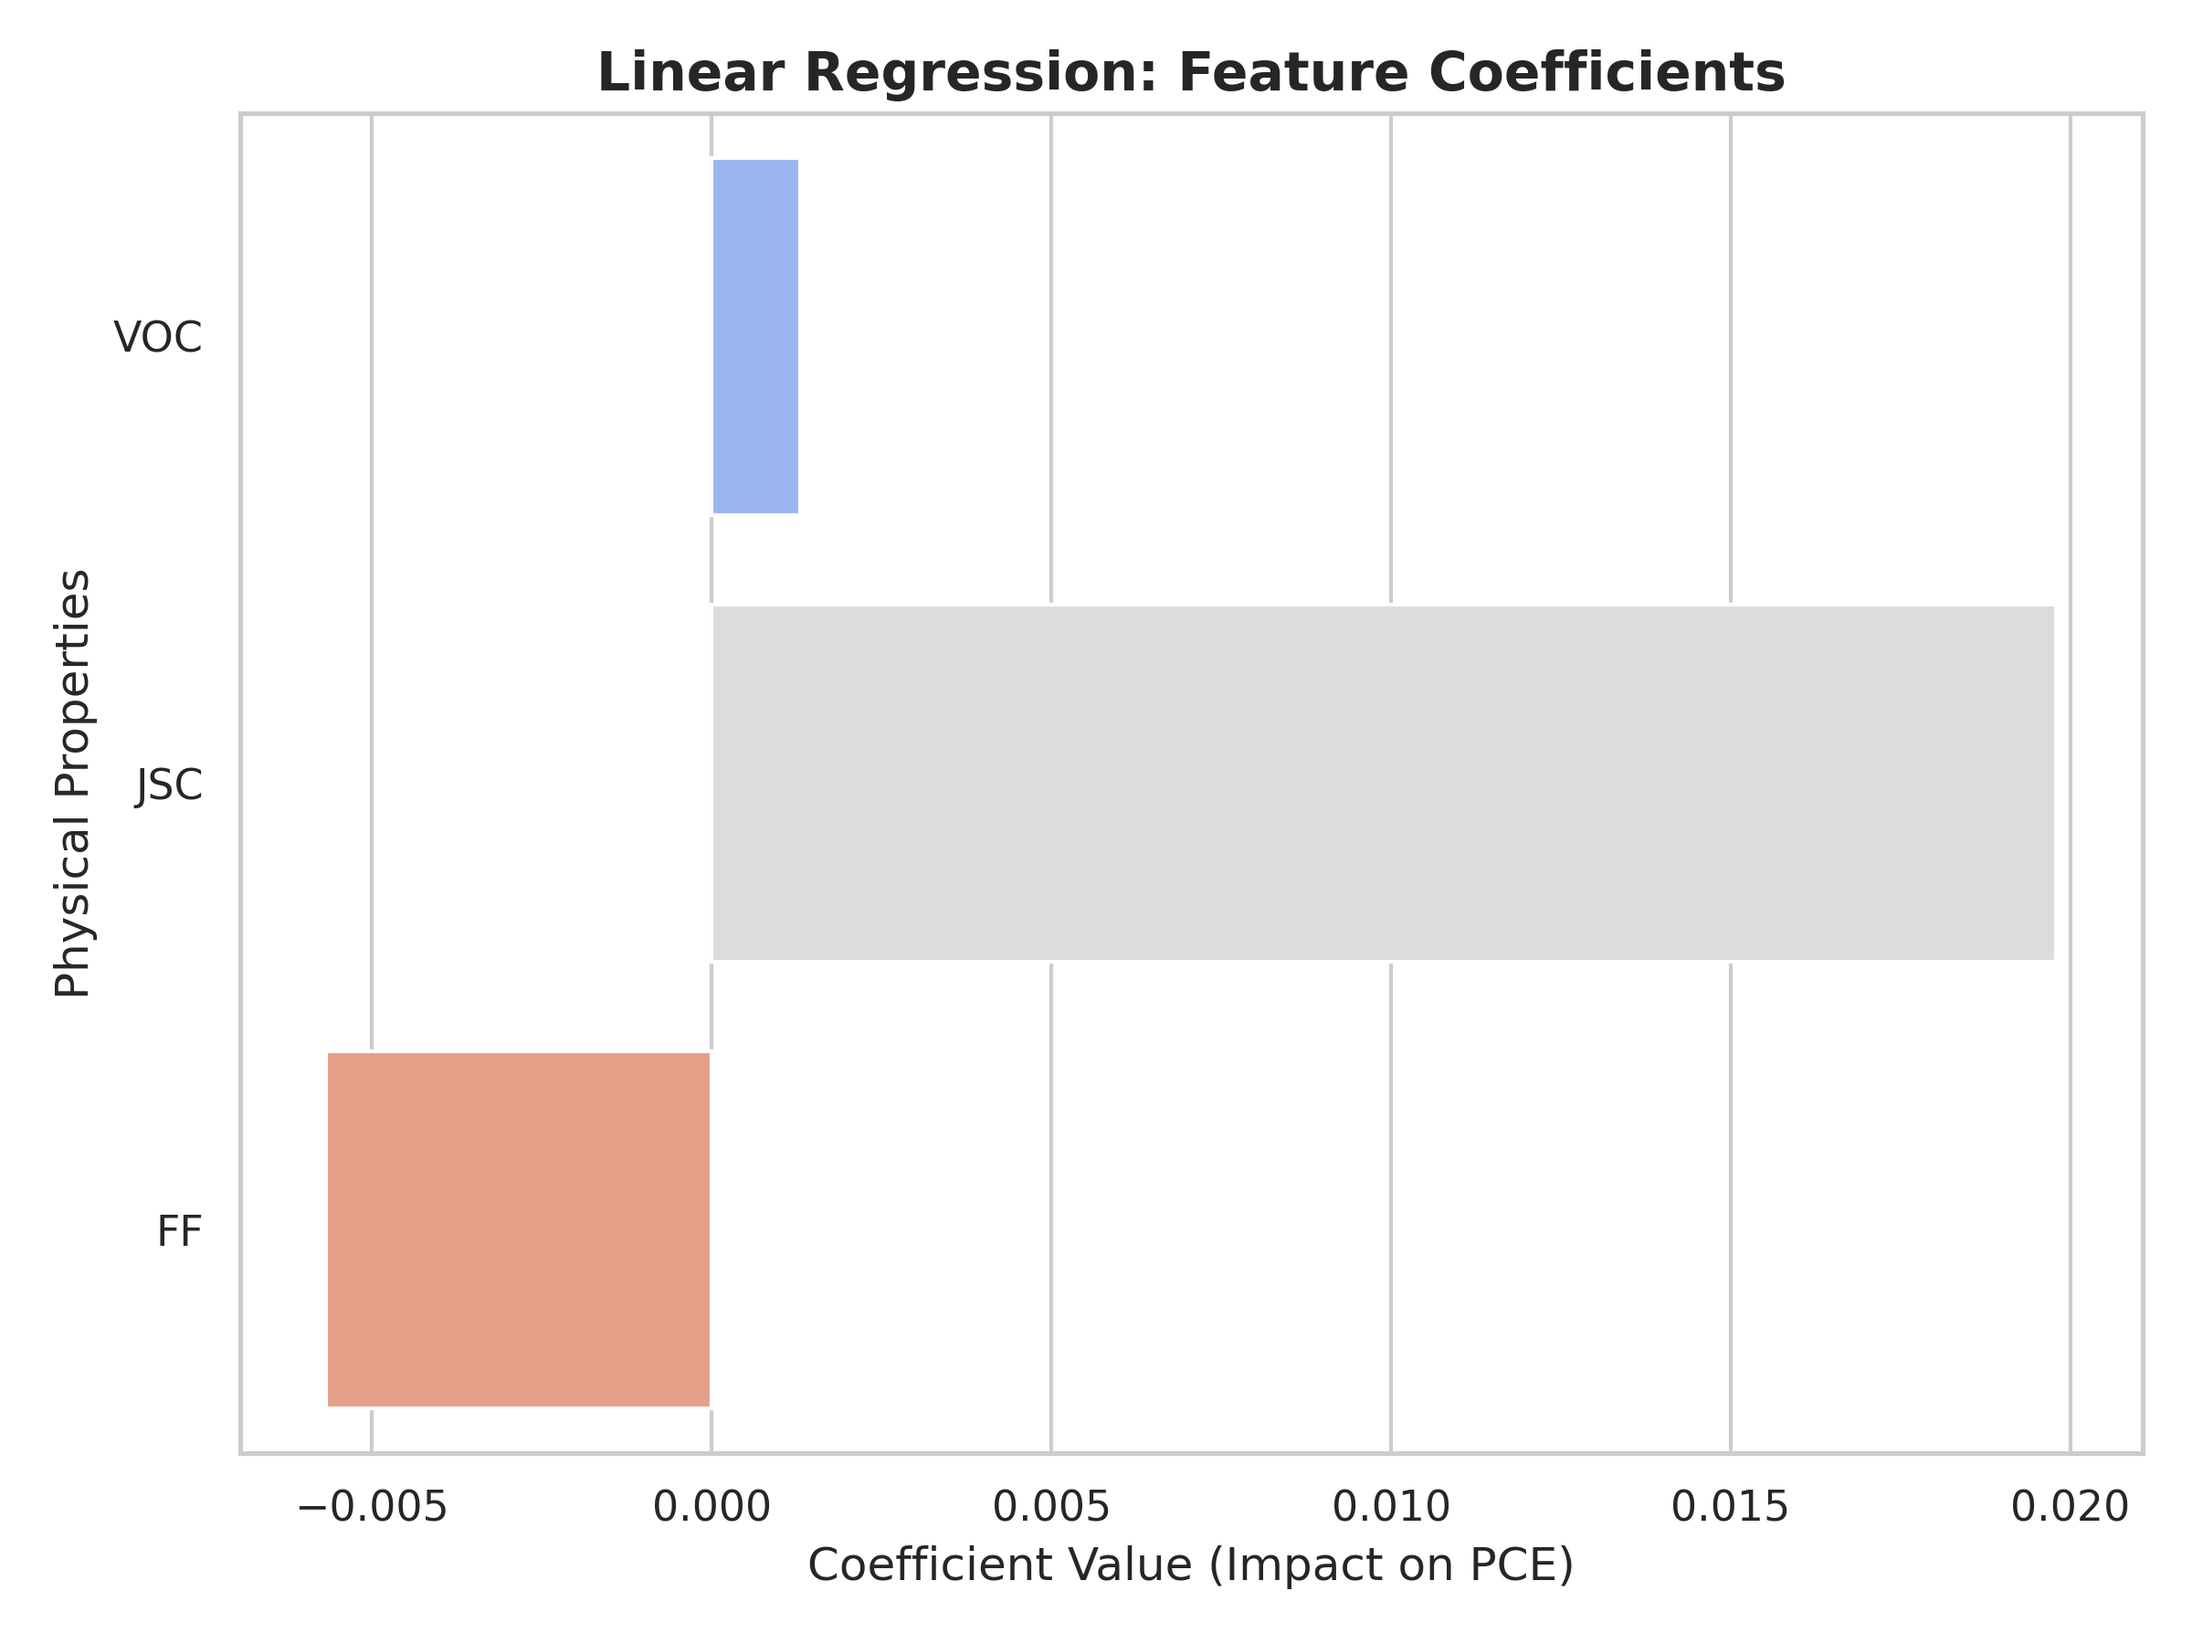
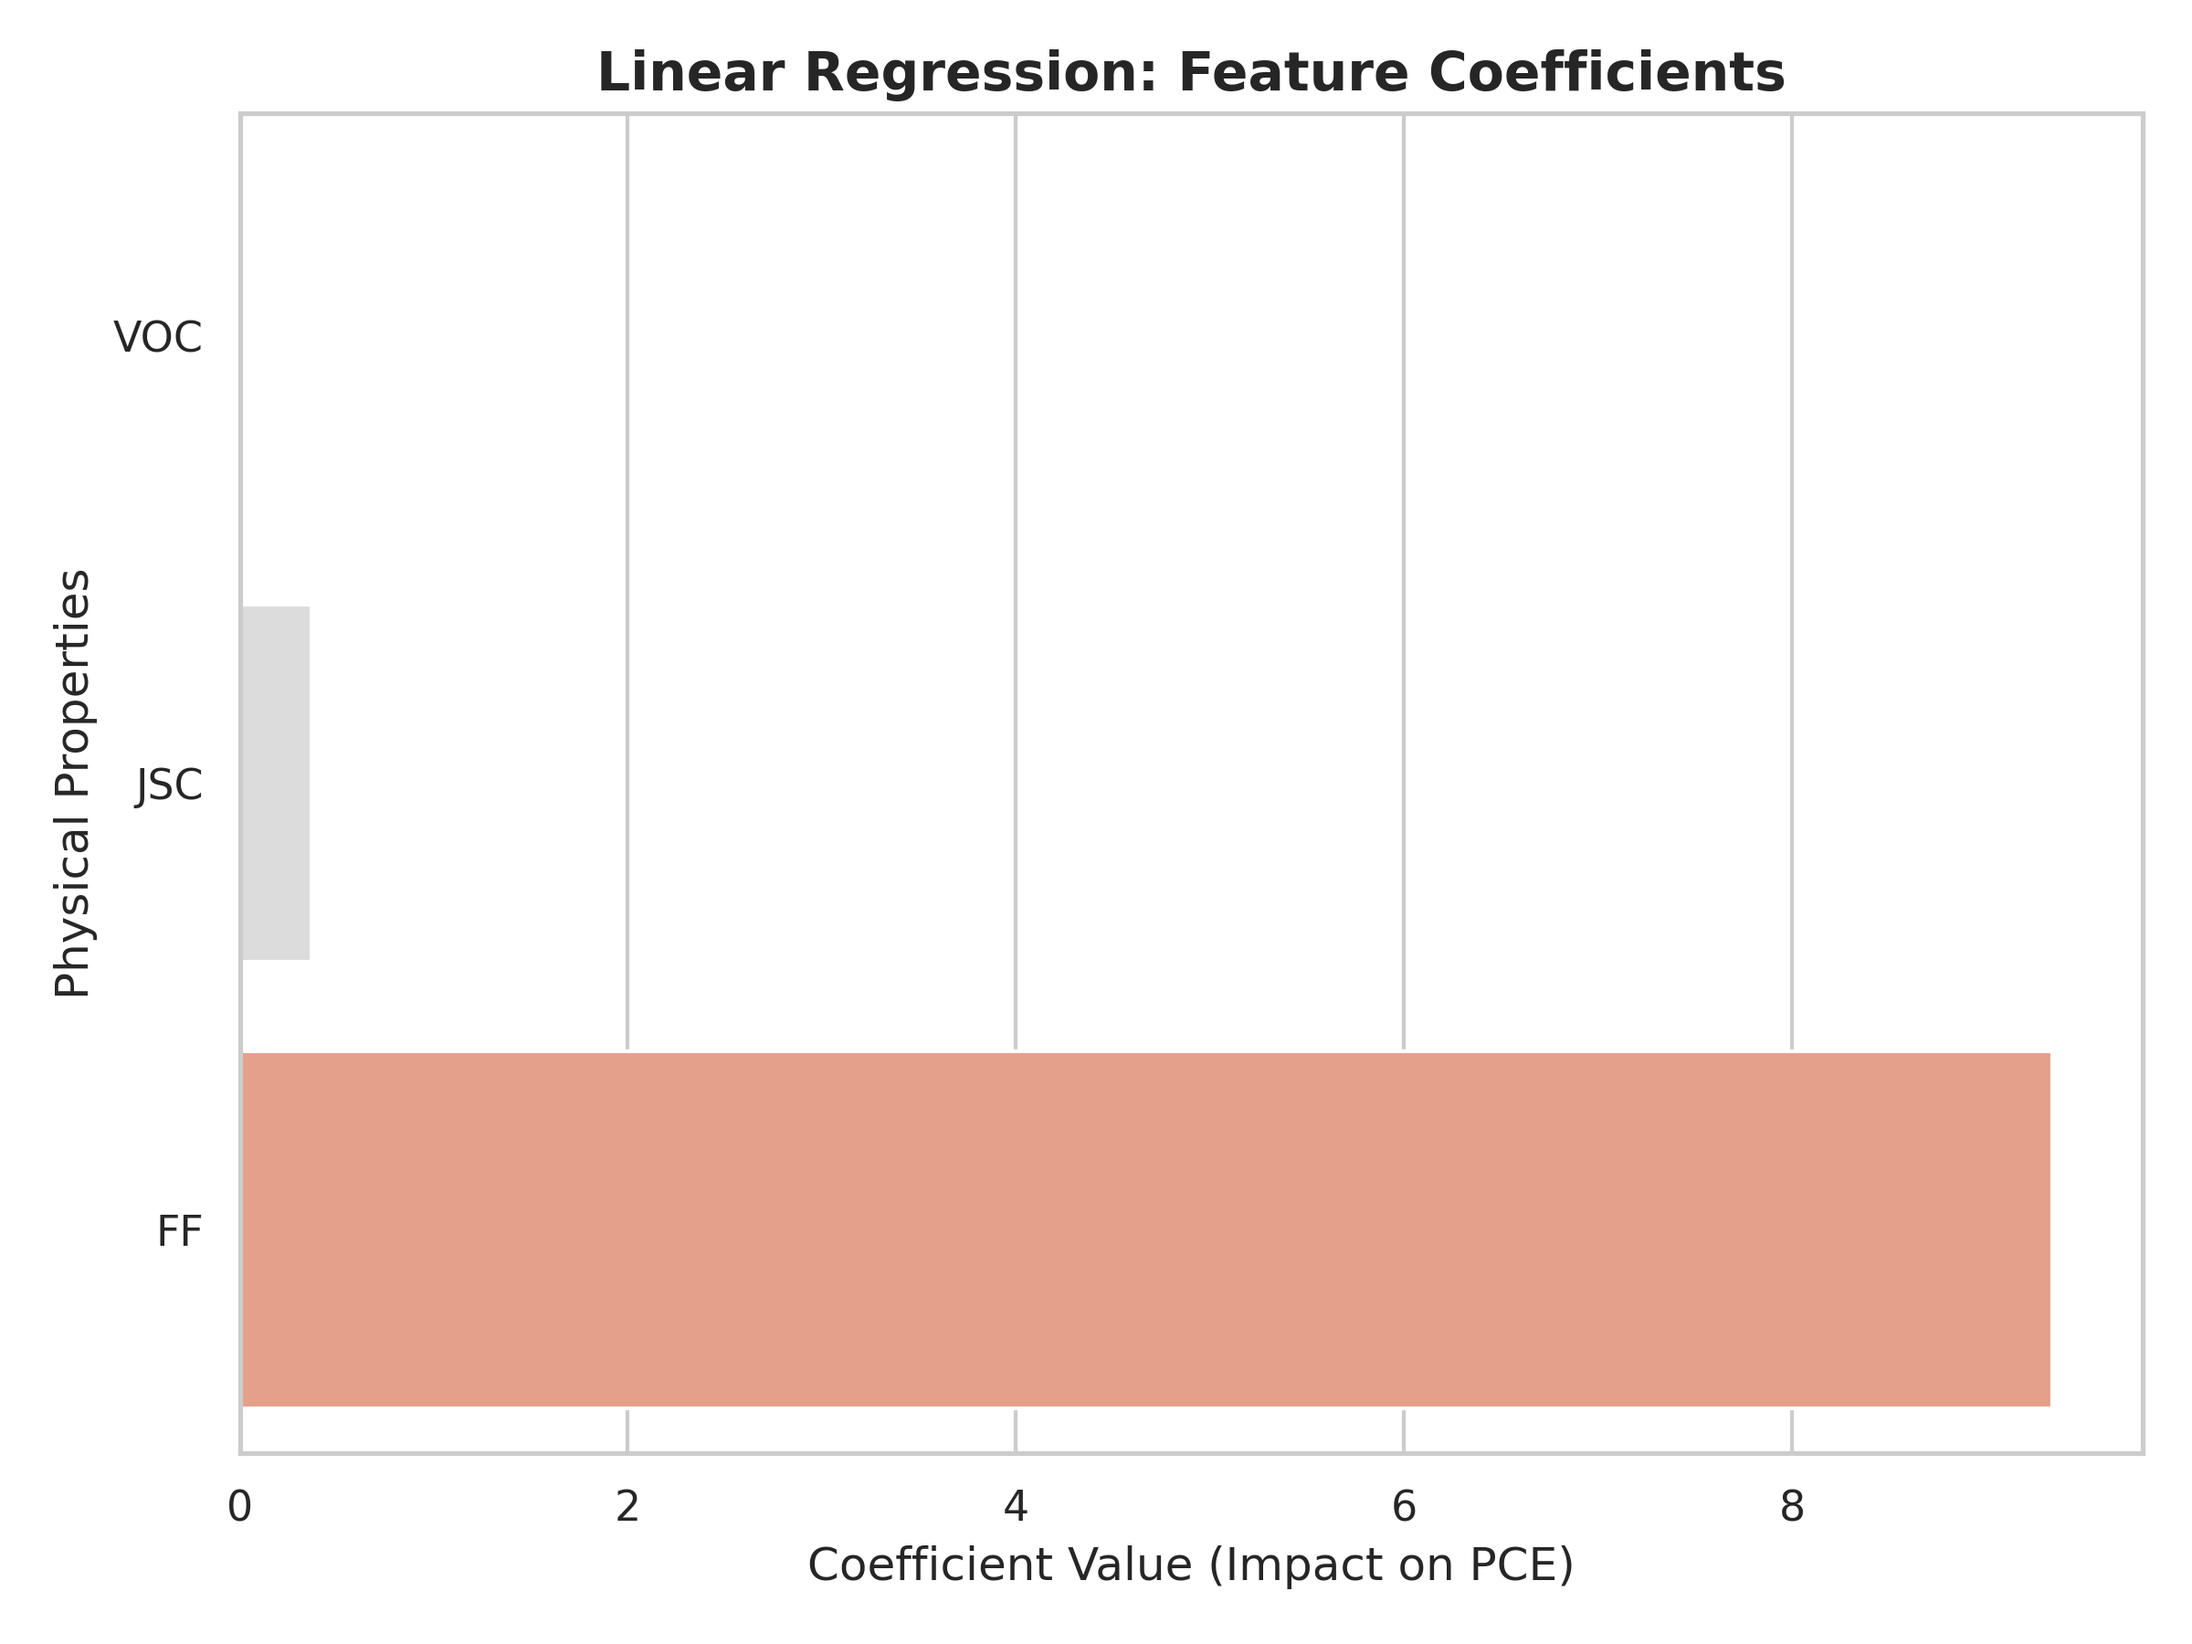
Add data_cleaned.csv from GitHub

diff --git a/Model.py b/Model.py
@@ -4,7 +4,7 @@ from sklearn.linear_model import LinearRegression
 from sklearn.metrics import mean_squared_error, r2_score
 
 # 1. Load the dataset
-df = pd.read_csv('ML_Ready_Dataset.csv')
+df = pd.read_csv('data_cleaned.csv')
 
 # 2. Define Features (X) and Target (y)
 # We want to predict PCE using VOC, JSC, and FF
@@ -31,5 +31,5 @@ print(f"Mean Squared Error: {mse:.4f}")
 print(f"R-squared Score: {r2:.4f}")
 
 # Example Prediction
-new_data = [[700, 15, 0.75]] # VOC, JSC, FF
+new_data = [[1400, 6.46, 0.792]] # VOC, JSC, FF
 print(f"Predicted PCE for {new_data}: {model.predict(new_data)[0]:.2f}")

diff --git a/preveiw.py b/preveiw.py
@@ -3,8 +3,8 @@ import matplotlib.pyplot as plt
 import seaborn as sns
 
 # 1. Load your specific dataset
-# Ensure 'ML_Ready_Dataset.csv' is in the same folder as your Python script
-df = pd.read_csv('data.csv')
+# Ensure 'data_cleaned.csv' is in the same folder as your Python script
+df = pd.read_csv('data_cleaned.csv')
 
 # Set the visual style for the plots
 sns.set_theme(style="whitegrid")

diff --git a/random_forest.py b/random_forest.py
@@ -39,5 +39,5 @@ print(f"JSC Importance: {importances[1] * 100:.2f}%")
 print(f"FF Importance:  {importances[2] * 100:.2f}%")
 
 # Example Prediction
-new_data = [[700, 15, 0.75]] # VOC, JSC, FF
+new_data = [[1400, 6.46, 0.792]] # VOC, JSC, FF
 print(f"Predicted PCE for {new_data}: {model.predict(new_data)[0]:.2f}")

diff --git a/finalLR.py b/finalLR.py
@@ -6,7 +6,7 @@ from sklearn.linear_model import LinearRegression
 from sklearn.metrics import mean_squared_error, r2_score
 
 # 1. LOAD DATA & SPLIT (80-20)
-df = pd.read_csv('ML_Ready_Dataset.csv')
+df = pd.read_csv('data_cleaned.csv')
 
 X = df[['VOC', 'JSC', 'FF']]
 y = df['PCE']

diff --git a/Predicting_RF.py b/Predicting_RF.py
@@ -8,7 +8,7 @@ import warnings
 warnings.filterwarnings('ignore', category=UserWarning)
 
 # 1. Load your specific dataset
-df = pd.read_csv('data.csv')
+df = pd.read_csv('data_cleaned.csv')
 
 # 2. Define Features (X) and Target (y)
 X = df[['VOC', 'JSC', 'FF']]

diff --git a/finalRF.py b/finalRF.py
@@ -7,7 +7,7 @@ from sklearn.metrics import mean_squared_error, r2_score
 
 
 # 1. LOAD DATA & SPLIT (80-20)
-df = pd.read_csv('ML_Ready_Dataset.csv')
+df = pd.read_csv('data_cleaned.csv')
 
 X = df[['VOC', 'JSC', 'FF']]
 y = df['PCE']
